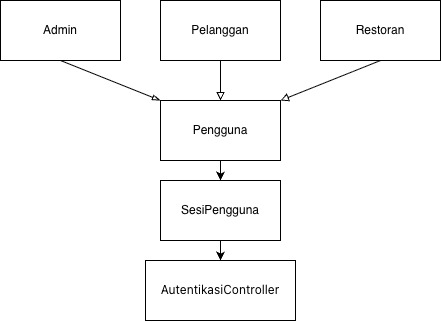
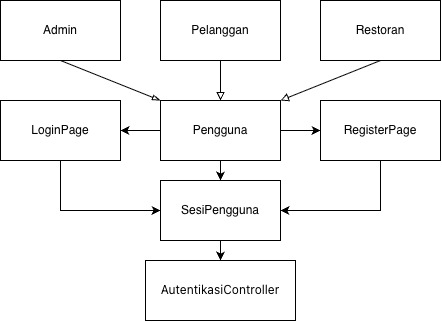
feat: logbook sendiri dan fix: uc09-uc11

diff --git a/docs/M4/K01_G10_CD.md b/docs/M4/K01_G10_CD.md
@@ -558,8 +558,8 @@ Identifikasi seluruh kelas yang diperlukan berdasarkan use case dan skenarionya.
 | *C36* | *PencarianController* | *Mengatur logika eksekusi pencarian, menerapkan filter pencarian, serta memproses dan mengambil data daftar restoran dari entitas. (Controller Class)* | *UC01* |
 | *C37* | *VerifikasiRestoranPage* | *Antarmuka untuk memverifikasi restoran yang mendaftar* | *UC05* |
 | *C38* | *RegistrasiRestoPage* | *Antarmuka bagi restoran untuk mendaftarkan diri dalam daftar restoran viral. (Boundary Class)* | *UC04* |
-| *C49* | *RegistrasiPage* | *Antarmuka untuk melakukan registrasi sebagai pelanggan, restoran, atau admin (Boundary Class)* | *UC10* |
-| *C40* | *LoginPage* | *Antarmuka puntuk masuk sebagai pelanggan, restoran, atau admin (Boundary Class)* | *UC11* |
+| *C49* | *RegistrasiPage* | *Antarmuka untuk melakukan registrasi sebagai pelanggan, restoran, atau admin (Boundary Class)* | *UC10, UC11* |
+| *C40* | *LoginPage* | *Antarmuka puntuk masuk sebagai pelanggan, restoran, atau admin (Boundary Class)* | *UC10, UC11* |
 | *C41* | *KeluhanFormPage* | *Antarmuka untuk memyimpan keluhan dari pengguna. (Boundary Class)* | *UC13* |
 | *C42* | *KeluhanController* | *Mengatur pengiriman keluhan dan menampilkan keluhan. (Controller Class)* | *UC13,UC14* |
 | *C43* | *KeluhanDashboardPage* | *Antarmuka untuk melihat daftar keluhan sebagai admin. (Boundary Class)* | *UC14* |
@@ -899,6 +899,8 @@ Pada diagram kelas, cukup tampilkan nama kelas saja. Atribut dan metode/operasi 
 | *C28* | *Autentikasi Controller* | *Menyimpan username dan password. (Controller Class)* |
 | *C29* | *SesiPengguna* | *Menyimpan data identitas sesi pengguna. (Entity Class)* |
 | *C30* | *Pengguna* | *Menyimpan data identitas pengguna. (Entity Class)* |
+| *C39* | *RegistrasiPage* | *Antarmuka untuk melakukan registrasi sebagai pelanggan, restoran, atau admin. (Boundary Class)* |
+| *C40* | *LoginPage* | *Antarmuka untuk masuk sebagai pelanggan, restoran, atau admin. (Boundary Class)* |
 | *...* | *...* | *...* |
 
 #### Diagram Kelas
@@ -921,6 +923,8 @@ Pada diagram kelas, cukup tampilkan nama kelas saja. Atribut dan metode/operasi 
 | *C28* | *Autentikasi Controller* | *-* | *createAccount(), validation()* |
 | *C29* | *SesiPengguna* | *idSesi, token, statusAktif* | *createSession()* |
 | *C30* | *Pengguna* | *idPengguna, email, role* | *getUserInfo(), saveCredentials()* |
+| *C39* | *RegistrasiPage* | *inputUsername, inputEmail, inputPassword* | *renderFormRegistrasi(), onSubmitRegister()* |
+| *C40* | *LoginPage* | *inputUsername, inputPassword* | *renderFormLogin(), onSubmitLogin()* |
 | *...* | *...* | *...* | *...* |
 
 ### 4.2.11 Use Case UC11
@@ -934,6 +938,8 @@ Pada diagram kelas, cukup tampilkan nama kelas saja. Atribut dan metode/operasi 
 | *C28* | *AutentikasiController* | *Mengeksekusi logika verifikasi kredensial saat pengguna login. (Controller Class)* |
 | *C29* | *SesiPengguna* | *Menyimpan informasi dan token sesi pengguna yang berhasil login dan aktif. (Entity Class)* |
 | *C30* | *Pengguna* | *Menyimpan informasi dan kredensial pengguna yang terdaftar (Entity Class)* |
+| *C39* | *RegistrasiPage* | *Antarmuka untuk melakukan registrasi sebagai pelanggan, restoran, atau admin. (Boundary Class)* |
+| *C40* | *LoginPage* | *Antarmuka untuk masuk sebagai pelanggan, restoran, atau admin. (Boundary Class)* |
 | *...* | *...* | *...* |
 
 #### Diagram Kelas
@@ -953,6 +959,8 @@ Pada diagram kelas, cukup tampilkan nama kelas saja. Atribut dan metode/operasi 
 | *C28* | *AutentikasiController* | *username, password, tokenManager* | *validation(), processLogin()* |
 | *C29* | *SesiPengguna* | *idSesi, token, statusAktif* | *validateSession(), validateToken()* |
 | *C30* | *Pengguna* | *idPengguna, username, password, role* | *getUserInfo(), validatePassword()* |
+| *C39* | *RegistrasiPage* | *inputUsername, inputEmail, inputPassword* | *renderFormRegistrasi(), onSubmitRegister()* |
+| *C40* | *LoginPage* | *inputUsername, inputPassword* | *renderFormLogin(), onSubmitLogin()* |
 | *...* | *...* | *...* | *...* |
 
 ### 4.2.12 Use Case UC12

diff --git a/docs/K01_G10_Logbook.md b/docs/K01_G10_Logbook.md
@@ -112,7 +112,9 @@
 | *20-09-2026* | *Chatima Anandakhorita* | *Mendefinisikan kelas untuk UC01 dan UC02 serta membuat diagram kelasnya* | *2* | *Done* | *-* |
 | *20-09-2026* | *Athallah Nanda Andita* | *Membuat dan menambahkan diagram kelas untuk UC03, UC12, serta UC15* | *0.5* | *Done* | *-* |
 | *20-09-2026* | *Athallah Nanda Andita* | *Membuat identifikasi kelas beserta penjelasannya untuk UC03, UC12, dan UC15 serta memperbaiki penomoran* | *1.25* | *Done* | *-* |
+| *20-09-2026* | *Muhammad Nur Fikri Hariyawan* | *Menambah subbab UC09-UC11* | *1* | *Done* | *-* |
 | *21-09-2026* | *Chatima Anandakhorita* | *Merapikan dan menyerasikan kembali ID dari seluruh kelas yang terdefinisi pada M4* | *1* | *Done* | *-* |
+| *21-09-2026* | *Muhammad Nur Fikri Hariyawan* | *Membuat Diagram dan penjelasan UC09-UC11* | *1* | *Done* | *-* |
 | *21-09-2026* | *Bayu Palamarta Wirawan* | *Melengkapi 35 kelas secara keseluruhan* | *1* | *Done* | *-* |
 | *22-09-2026* | *Bayu Palamarta Wirawan* | *Membuat diagram kelas secara keseluruhan* | *3* | *Done* | *Kesulitan mencari posisi yang tepat supaya tidak bertabrakan* |
 | *22-09-2026* | *Bayu Palamarta Wirawan* | *Memperbaiki UC06, UC07, UC08* | *1* | *Done* | *-* |
@@ -124,6 +126,7 @@
 | *23-09-2026* | *Athallah Nanda Andita* | *Menambahkan atribut dan metode/operasi untuk diagram kelas keseluruhan* | *1.5* | *Done* | *-* |
 | *23-09-2026* | *Bayu Palamarta Wirawan* | *Memperbaiki Diagram Kelas Utama* | *0.5* | *Done* | *-* |
 | *23-09-2026* | *Muhammad Fauzi Muharam* | *Membuat Traceability* | *1.5* | *Done* | *-* |
+| *23-09-2026* | *Muhammad Nur Fikri Hariyawan* | *Memperbaiki UC09-UC11* | *1* | *Done* | *-* |
 
 
 
